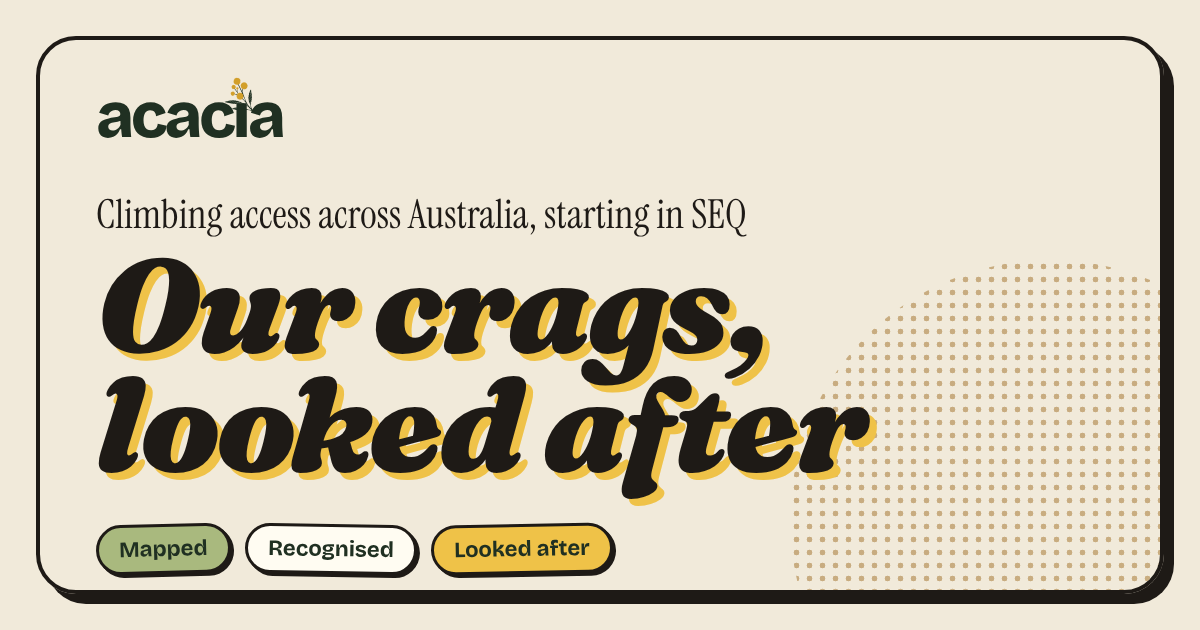
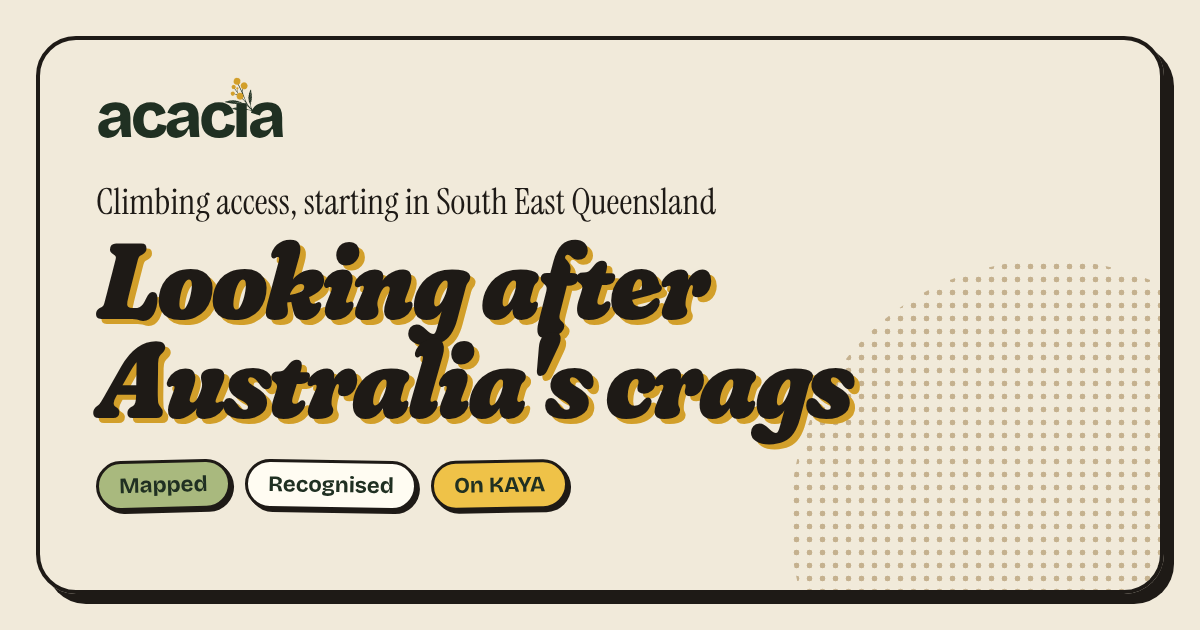
Make headings easier to read and update the headline
- Offset headline shadow only on the paper background, in logo gold, scaled to the text
- Plain headings on coloured panels (callouts), where the shadow blurred
- Fraunces quirky letters switched off for readability
- Callouts and quote cards can be paper; paper callouts get a yellow button
- Share picture updated to "Looking after Australia's crags"
- Backup pages synced: no KAYA job mentions until the role starts

Claude-Session: https://claude.ai/code/session_01Aa8U7jUEEWk5a2d135mGNv

Changed region(s): [[0.0617, 0.3016, 0.74, 0.9349]]

diff --git a/studio/schemaTypes/sections.ts b/studio/schemaTypes/sections.ts
@@ -135,7 +135,7 @@ export const textSection = defineType({
     ...linkFields(),
     defineField({ name: 'quote', title: 'Quote card: big line', type: 'string', description: 'Leave empty for no quote card' }),
     defineField({ name: 'quoteBody', title: 'Quote card: text', type: 'text', rows: 3 }),
-    defineField({ name: 'quoteTone', title: 'Quote card colour', type: 'string', initialValue: 'wattle', options: radio(CARD_TONES) }),
+    defineField({ name: 'quoteTone', title: 'Quote card colour', type: 'string', initialValue: 'sandstone', description: 'Wattle is best kept for buttons and small highlights, not big panels', options: radio(CARD_TONES) }),
   ],
   preview: { select: { title: 'heading', subtitle: 'label' }, prepare: ({ title, subtitle }) => ({ title: title || 'Text', subtitle: `Text · ${subtitle ?? ''}` }) },
 })
@@ -319,7 +319,7 @@ export const ctaSection = defineType({
     defineField({ name: 'body', title: 'Text', type: 'text', rows: 3 }),
     defineField({ name: 'buttonLabel', title: 'Button text', type: 'string' }),
     defineField({ name: 'buttonHref', title: 'Button link', type: 'string' }),
-    defineField({ name: 'tone', title: 'Panel colour', type: 'string', initialValue: 'sandstone', options: radio([{ title: 'Sandstone', value: 'sandstone' }, { title: 'Wattle', value: 'wattle' }, { title: 'Lichen', value: 'lichen' }, { title: 'Gum leaf', value: 'gum' }]) }),
+    defineField({ name: 'tone', title: 'Panel colour', type: 'string', initialValue: 'sandstone', description: 'Paper makes the button stand out most. Wattle is best kept for buttons, not big panels', options: radio([{ title: 'Paper', value: 'light' }, { title: 'Sandstone', value: 'sandstone' }, { title: 'Lichen', value: 'lichen' }, { title: 'Gum leaf', value: 'gum' }, { title: 'Wattle', value: 'wattle' }]) }),
   ],
   preview: { select: { title: 'heading' }, prepare: ({ title }) => ({ title: title || 'Call to action', subtitle: 'Call to action' }) },
 })

diff --git a/components/section/Callout.vue b/components/section/Callout.vue
@@ -4,9 +4,10 @@
     <UiCard :tone="tone" size="lg" halftone="bottom-right">
       <div class="max-w-[720px]">
         <p v-if="lead" class="m-0 font-poster text-2xl">{{ lead }}</p>
-        <UiRisoHeading :text="title" size="md" :shadow="tone === 'wattle' ? 'moss' : 'wattle'" class="mt-2 !text-[clamp(36px,5vw,60px)] !leading-[0.95]" />
+        <!-- Plain heading: an offset shadow blurs on a coloured panel -->
+        <h2 class="mt-2 mb-0 font-display text-[clamp(36px,5vw,60px)] leading-[0.95] tracking-[-0.025em]">{{ title }}</h2>
         <p v-if="body" class="mt-5 mb-0 text-lg leading-relaxed">{{ body }}</p>
-        <UiButton v-if="cta" class="mt-6" :to="cta.to" :href="cta.href" :variant="cta.variant ?? 'paper'">{{ cta.label }}</UiButton>
+        <UiButton v-if="cta" class="mt-6" :to="cta.to" :href="cta.href" :variant="cta.variant ?? (tone === 'light' ? 'wattle' : 'paper')">{{ cta.label }}</UiButton>
       </div>
     </UiCard>
   </section>
@@ -16,7 +17,7 @@
 import type { Cta } from '~/types/content'
 
 withDefaults(
-  defineProps<{ title: string; lead?: string; body?: string; cta?: Cta; tone?: 'sandstone' | 'wattle' | 'lichen' | 'gum' }>(),
+  defineProps<{ title: string; lead?: string; body?: string; cta?: Cta; tone?: 'light' | 'sandstone' | 'wattle' | 'lichen' | 'gum' }>(),
   { tone: 'sandstone' },
 )
 </script>

diff --git a/components/ui/RisoHeading.vue b/components/ui/RisoHeading.vue
@@ -1,8 +1,9 @@
 <template>
   <!-- Big italic headline printed in "two inks": a wattle copy sits slightly off-register
-       behind the dark one. Use \n in `text` for a line break. `accent` adds a word in moss. -->
+       behind the dark one. Only use it on the paper background: on coloured panels the
+       shadow and panel blur together, so use a plain heading there. Use \n in `text` for a line break. `accent` adds a word in moss. -->
   <component :is="as" class="relative m-0 font-display leading-[0.9] tracking-[-0.025em] whitespace-pre-line" :class="SIZES[size]">
-    <span aria-hidden="true" class="absolute inset-0 translate-x-[5px] translate-y-[5px]" :class="shadow === 'moss' ? 'text-moss' : 'text-wattle'">{{ accent ? `${text} ${accent}` : text }}</span>
+    <span aria-hidden="true" class="absolute inset-0 translate-x-[0.05em] translate-y-[0.05em]" :class="shadow === 'moss' ? 'text-moss' : 'text-wattle-deep'">{{ accent ? `${text} ${accent}` : text }}</span>
     <!-- {{ ' ' }} keeps the space: Vue strips plain spaces between tags -->
     <span class="relative">{{ text }}<template v-if="accent">{{ ' ' }}<span class="text-moss">{{ accent }}</span></template></span>
   </component>

diff --git a/components/home/Hero.vue b/components/home/Hero.vue
@@ -21,10 +21,10 @@
 
     <p v-if="label" :class="latest ? 'mt-7' : ''" class="relative mb-0 max-w-[640px] font-poster text-[clamp(22px,3.2vw,32px)] leading-tight text-balance">{{ label }}</p>
 
-    <!-- Two-ink riso headline: the wattle copy sits slightly off-register behind the dark one.
+    <!-- Two-ink riso headline: the logo-gold copy sits slightly off-register behind the dark one.
          Each line typed in the Studio becomes its own line here. -->
     <h1 class="relative mt-4 sm:mt-5 mb-0 font-display text-[clamp(60px,12.5vw,148px)] leading-[0.9] tracking-[-0.025em]">
-      <span aria-hidden="true" class="absolute inset-0 text-wattle translate-x-[5px] translate-y-[5px] sm:translate-x-[6px] sm:translate-y-[6px] whitespace-pre-line">{{ heading }}</span>
+      <span aria-hidden="true" class="absolute inset-0 text-wattle-deep translate-x-[0.05em] translate-y-[0.05em] whitespace-pre-line">{{ heading }}</span>
       <span class="relative whitespace-pre-line">{{ heading }}</span>
     </h1>
 

diff --git a/components/site/PageHeader.vue b/components/site/PageHeader.vue
@@ -10,7 +10,7 @@
     >{{ eyebrow }}</p>
 
     <h1 class="relative mt-6 mb-0 font-display text-[clamp(40px,13vw,52px)] sm:text-[clamp(52px,9vw,108px)] leading-[0.9] [overflow-wrap:break-word] tracking-[-0.025em] max-w-[1000px]">
-      <span aria-hidden="true" class="absolute inset-0 text-wattle translate-x-[5px] translate-y-[5px]">{{ accent ? `${title} ${accent}` : title }}</span>
+      <span aria-hidden="true" class="absolute inset-0 text-wattle-deep translate-x-[0.05em] translate-y-[0.05em]">{{ accent ? `${title} ${accent}` : title }}</span>
       <!-- The space is written as {{ ' ' }} because Vue strips plain spaces between tags -->
       <span class="relative">{{ title }}<template v-if="accent">{{ ' ' }}<span class="text-moss">{{ accent }}</span></template></span>
     </h1>

diff --git a/components/section/Split.vue b/components/section/Split.vue
@@ -7,7 +7,7 @@
         <p v-for="p in paragraphs" :key="p" class="mt-5 mb-0 text-lg leading-relaxed">{{ p }}</p>
         <UiButton v-if="cta" class="mt-6" :to="cta.to" :href="cta.href" :variant="cta.variant">{{ cta.label }}</UiButton>
       </div>
-      <UiCard v-if="highlight" :tone="highlight.tone ?? 'wattle'" size="lg" halftone="top-right">
+      <UiCard v-if="highlight" :tone="highlight.tone ?? 'sandstone'" size="lg" halftone="top-right">
         <p class="m-0 font-display text-[clamp(30px,3.6vw,44px)] leading-[1.05]">{{ highlight.quote }}</p>
         <p v-if="highlight.body" class="mt-4 mb-0 text-[17px] leading-relaxed">{{ highlight.body }}</p>
       </UiCard>

diff --git a/assets/css/main.css b/assets/css/main.css
@@ -1,4 +1,4 @@
-@import url('https://fonts.googleapis.com/css2?family=Fraunces:ital,opsz,wght,SOFT,WONK@1,9..144,900,100,1&family=Instrument+Serif&family=Bricolage+Grotesque:opsz,wght@12..96,700;12..96,800&family=DM+Sans:wght@400;500;700&family=Bagel+Fat+One&family=Cormorant+Garamond:ital,wght@1,600&display=swap');
+@import url('https://fonts.googleapis.com/css2?family=Fraunces:ital,opsz,wght,SOFT,WONK@1,9..144,900,100,0&family=Instrument+Serif&family=Bricolage+Grotesque:opsz,wght@12..96,700;12..96,800&family=DM+Sans:wght@400;500;700&family=Bagel+Fat+One&family=Cormorant+Garamond:ital,wght@1,600&display=swap');
 @import "tailwindcss";
 
 @theme {

diff --git a/types/content.ts b/types/content.ts
@@ -9,7 +9,7 @@ export interface Cta {
   variant?: 'wattle' | 'moss' | 'paper'
 }
 
-export type Tone = 'light' | 'wattle' | 'sandstone' | 'lichen' | 'forest'
+export type Tone = 'light' | 'wattle' | 'sandstone' | 'lichen' | 'gum' | 'forest'
 export type ChipTone = 'wattle' | 'lichen' | 'sandstone' | 'moss' | 'forest' | 'paper'
 
 export interface CardItem {

diff --git a/CLAUDE.md b/CLAUDE.md
@@ -7,7 +7,7 @@ The website for Acacia Climbing Coalition (ACC), an Australian climbing access o
 - Climbers and volunteers who need to feel the mission and find a clear pathway to contribute
 - Council officers, land managers, and grant bodies who need to see a credible, organised, professional counterparty
 
-ACC operates under the RCQ (Rock Climbing Queensland, formerly ACAQ) umbrella and uses KAYA for digital guidebook hosting. Cooper also works with KAYA as a support engineer. There's no gym arrangement yet, but KAYA may pay him to onboard and support gyms on its indoor app; the site discloses this wherever gyms or money come up, as a possibility, not a done deal. Guidebook income goes back to RCQ, councils and theCrag; donations go to Crag Care Days, comps, giveaways and, once there's backing, sponsoring climbers who document and share crags (including free KAYA memberships). ACC isn't funnelling people into paid memberships. Never speak badly of existing guides or theCrag: the message is simply that nothing current and modern exists yet, and ACC is building it. The SEQ guidebook author is not involved; don't imply otherwise. Cooper presents with the website itself, not a slide deck The long-term goal is a funded non-profit with national scope.
+ACC operates under the RCQ (Rock Climbing Queensland, formerly ACAQ) umbrella and uses KAYA for digital guidebook hosting. Cooper does not work for KAYA yet; a support engineer role (possibly including paid gym onboarding) may start later. Until it does, the site says nothing about it. When it starts, add a short disclosure wherever KAYA, gyms or money come up, because ACC recommends KAYA and a hidden link would look like a conflict of interest. Guidebook income goes back to RCQ, councils and theCrag; donations go to Crag Care Days, comps, giveaways and, once there's backing, sponsoring climbers who document and share crags (including free KAYA memberships). ACC isn't funnelling people into paid memberships. Never speak badly of existing guides or theCrag: the message is simply that nothing current and modern exists yet, and ACC is building it. The SEQ guidebook author is not involved; don't imply otherwise. Cooper presents with the website itself, not a slide deck The long-term goal is a funded non-profit with national scope.
 
 ## Tech stack
 
@@ -59,15 +59,15 @@ The approved homepage mockup lives on the Claude Design canvas ("G · Retro post
 | `forest` | #203022 | Logo green, dark sections (pre-footer, footer) |
 | `moss` | #4F6B34 | Progress bars, primary button |
 | `lichen` | #A9B97E | "Recognised" chips, soft fills |
-| `wattle` | #EFC248 | Actions and highlights: buttons, chips, riso headline shadow. Never as text on paper |
-| `wattle-deep` | #D29F2A | Logo gold, halftone dots on wattle |
+| `wattle` | #EFC248 | Actions and small highlights: buttons, chips, stickers. Never as text on paper |
+| `wattle-deep` | #D29F2A | Logo gold, riso headline shadow, halftone dots on wattle |
 | `sandstone` | #D8C29A | Calm panels and bands (dusty, so it never competes with wattle) |
 | `sandstone-deep` | #B39A70 | Halftone dots on sandstone |
 | `gum` | #8FA6A0 | Gum-leaf grey-green: cool, calm panels and bands |
 | `gum-deep` | #6F8781 | Halftone dots on gum |
 | `ironbark` | #8A3B2A | Warnings only: the "Access issue" status, closures. Paper text on it |
 
-No orange or pink. Wattle is for actions and highlights; sandstone and gum are for calm panels; ironbark is only for warnings. Alternate greens (lichen, gum) with the yellows down a page so it doesn't read as one long beige scroll.
+No orange or pink. Wattle is for actions and small highlights (buttons, chips, stickers), not big panels or callouts; sandstone and gum are for calm panels; ironbark is only for warnings. Alternate greens (lichen, gum) with the yellows down a page so it doesn't read as one long beige scroll.
 
 ### Type
 
@@ -87,7 +87,8 @@ No orange or pink. Wattle is for actions and highlights; sandstone and gum are f
 ### Patterns
 
 - **Poster box:** 3px `outline` border + hard 4 to 8px offset shadow, big radius (20 to 32px) or full pill
-- **Riso headline:** duplicate the text behind in `wattle` (or `moss` on wattle backgrounds) offset ~6px, `aria-hidden` on the copy
+- **Riso headline:** duplicate the text behind in `wattle-deep` (logo gold), offset 0.05em, `aria-hidden` on the copy. Only on the paper background (hero, page headers, statements); on coloured panels use a plain heading, because the shadow blurs into the panel
+- **Fraunces** is loaded with the quirky "wonky" letters switched off (WONK 0) for readability
 - **Halftone circle:** `.halftone` with `--dot` set to a deeper shade of the panel colour
 - **Tilt:** stickers and pills sit at -3 to 3deg via `.tilt` + `--tilt`, and straighten on hover
 - **Motion:** marquee, bobbing sprig, twinkling sparkles, progress bars filling. All switch off under `prefers-reduced-motion`
